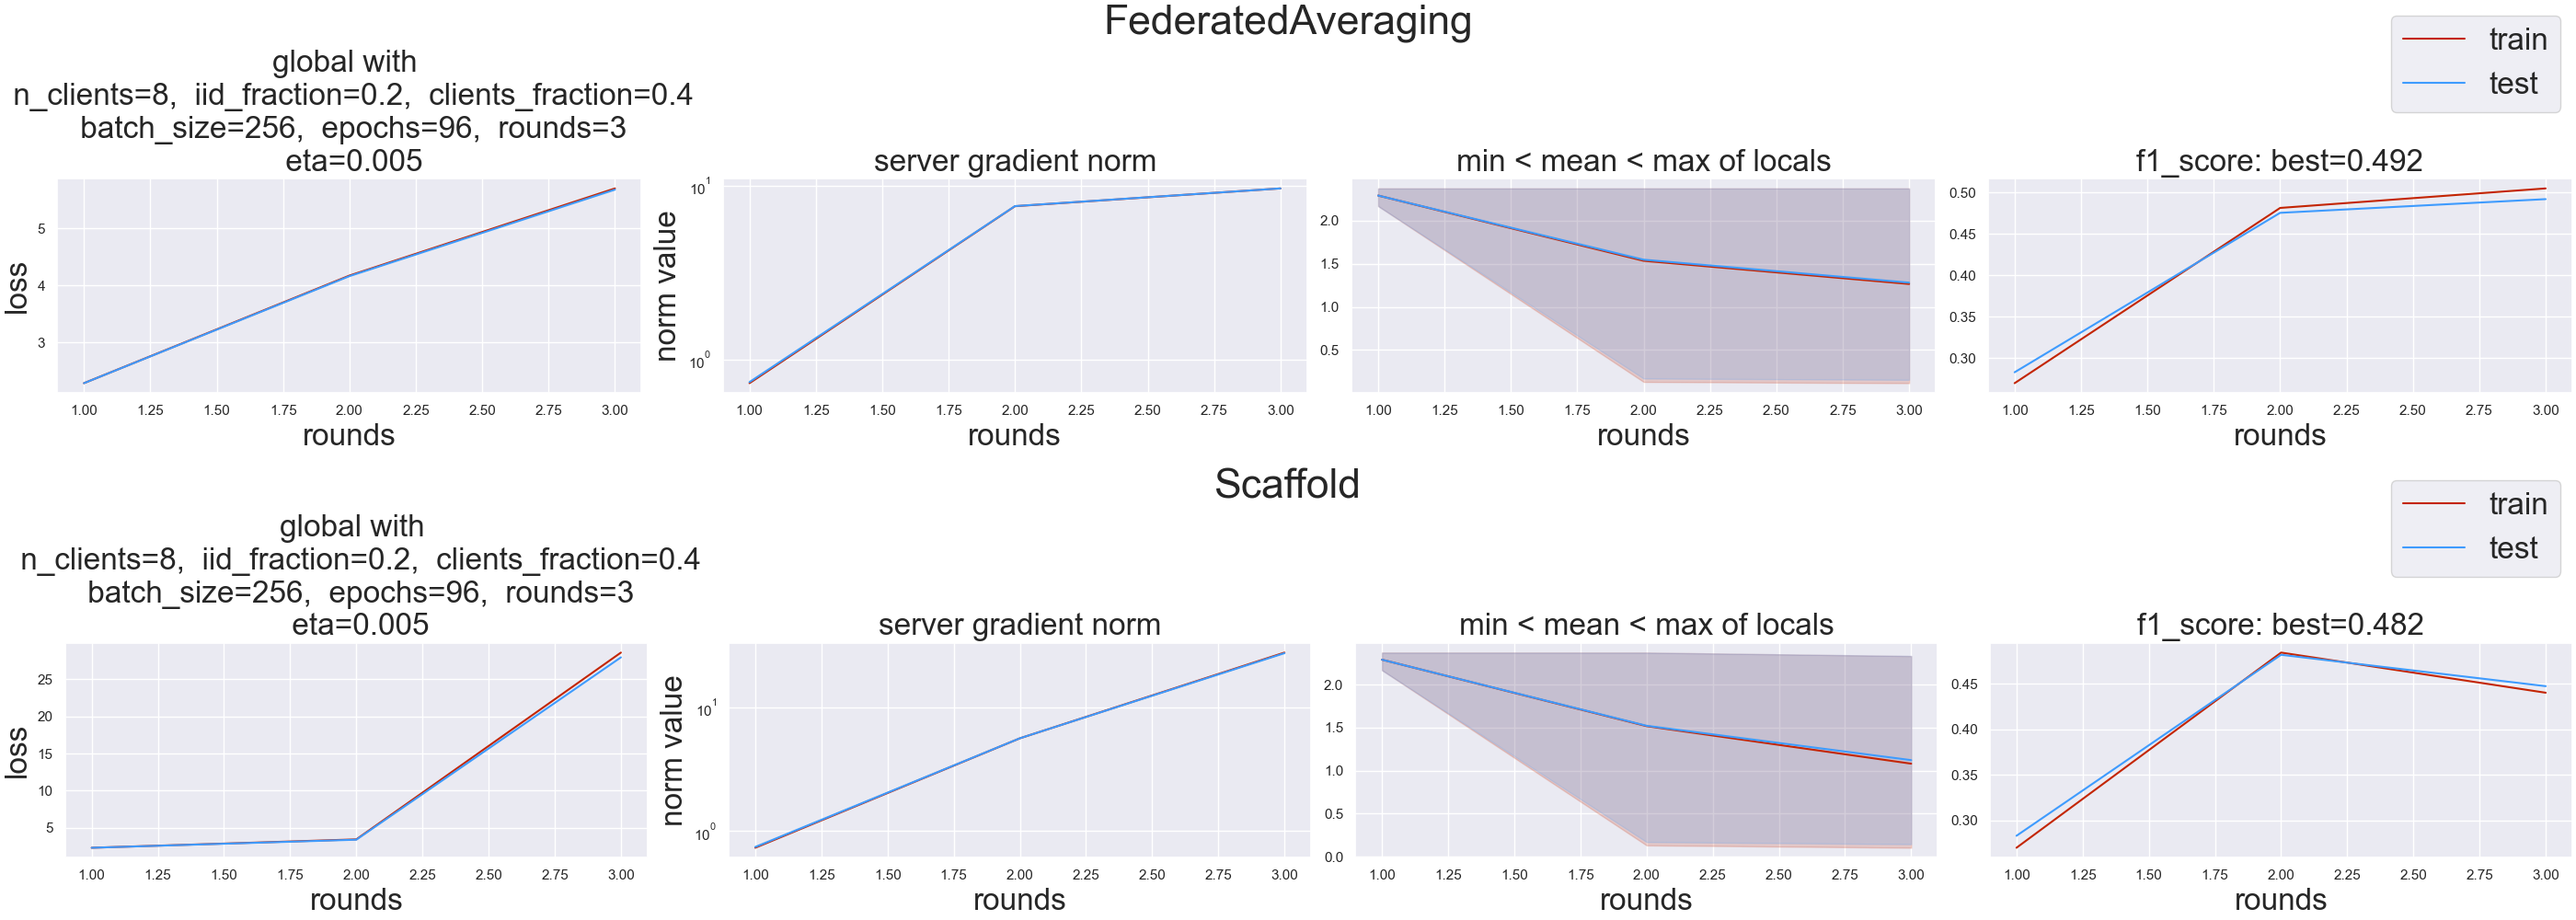
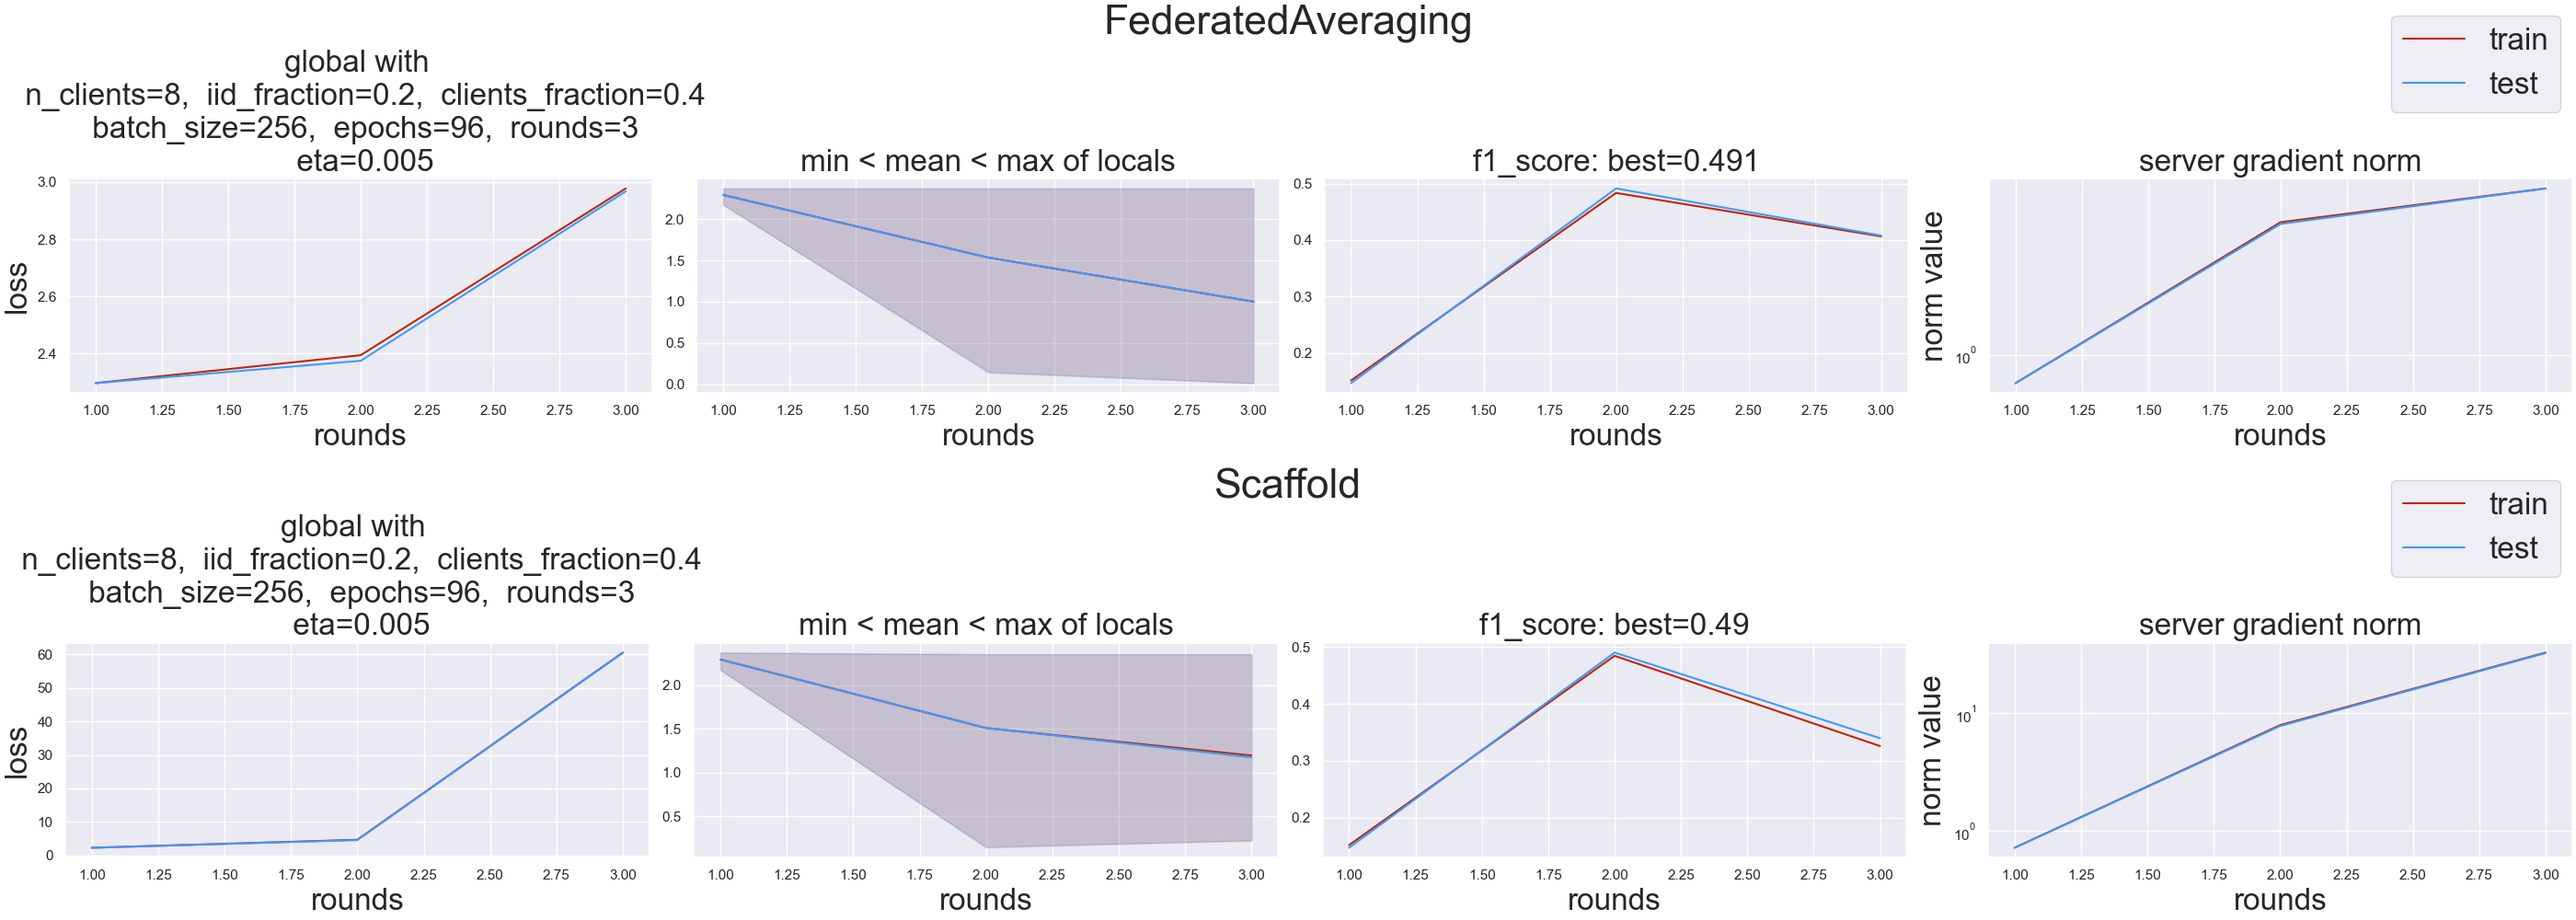
update run script

diff --git a/source/pipeline/pipeline.py b/source/pipeline/pipeline.py
@@ -190,16 +190,6 @@ class Pipeline:
     horizontal_axes[current_plot].set_title(f"global with {title}", fontsize=self.title_size)
     current_plot += 1
 
-    if self.with_grads:
-      horizontal_axes[current_plot].semilogy(np.arange(1, len(history["norm_grads"]) + 1), history["norm_grads"], color=color)
-      horizontal_axes[current_plot].set_xlabel("rounds", fontsize=self.title_size)
-      horizontal_axes[current_plot].set_ylabel("norm value", fontsize=self.title_size)
-      horizontal_axes[current_plot].set_title(f"server gradient norm", fontsize=self.title_size)
-      ymin = min(ymin, min(history["norm_grads"]))
-      ymax = max(ymax, max(history["norm_grads"]))
-
-      current_plot += 1
-
     min_mean_max = self._prepare_fill_between(history["clients"])
     horizontal_axes[current_plot].plot(np.arange(1, len(min_mean_max["mean"]) + 1), min_mean_max["mean"], color=color)
     horizontal_axes[current_plot].fill_between(
@@ -213,6 +203,7 @@ class Pipeline:
     horizontal_axes[current_plot].set_title(f"min < mean < max of locals", fontsize=self.title_size)
     ymin = min(ymin, min(min_mean_max["min"]))
     ymax = max(ymax, max(min_mean_max["max"]))
+
     current_plot += 1
 
     
@@ -232,7 +223,17 @@ class Pipeline:
       ax.plot(np.arange(1, len(results) + 1), results, color=color)
       ax.set_xlabel("rounds", fontsize=self.title_size)
       ax.set_title(f"{metric}: best={round(max(results), 3)}", fontsize=self.title_size)
-    
+
+    if self.with_grads:
+      horizontal_axes[-1].semilogy(np.arange(1, len(history["norm_grads"]) + 1), history["norm_grads"], color=color)
+      horizontal_axes[-1].set_xlabel("rounds", fontsize=self.title_size)
+      horizontal_axes[-1].set_ylabel("norm value", fontsize=self.title_size)
+      horizontal_axes[-1].set_title(f"server gradient norm", fontsize=self.title_size)
+      ymin = min(ymin, min(history["norm_grads"]))
+      ymax = max(ymax, max(history["norm_grads"]))
+
+      current_plot += 1
+
     if self.scaled:
       for ax in horizontal_axes[:-len(history["metrics"])]:
         ax.set_ylim(

diff --git a/source/run.py b/source/run.py
@@ -116,28 +116,6 @@ optimizer_parameters = {
   }
 }
 
-optimizer_parameters = {
-  FederatedAveraging : {
-    "n_clients" : [8],
-    "iid_fraction" : [0.2],
-    "clients_fraction": [0.4],
-    "batch_size": [256], 
-    "epochs": [96], # 16, 64, 
-    "rounds": [3],
-    "eta": [0.5e-2], # , 1e-2
-  },
-  Scaffold : {
-    "n_clients" : [8],
-    "iid_fraction" : [0.2],
-    "clients_fraction": [0.4],
-    "batch_size": [256], 
-    "epochs": [96], # 16, 64, 
-    "rounds": [3],
-    "eta": [0.5e-2], # , 1e-2
-  },
-}
-
-
 metrics = {
   "f1_score" : lambda y_proba, y_true: f1_score(np.argmax(y_proba, axis=1), y_true, average="weighted")
 }
